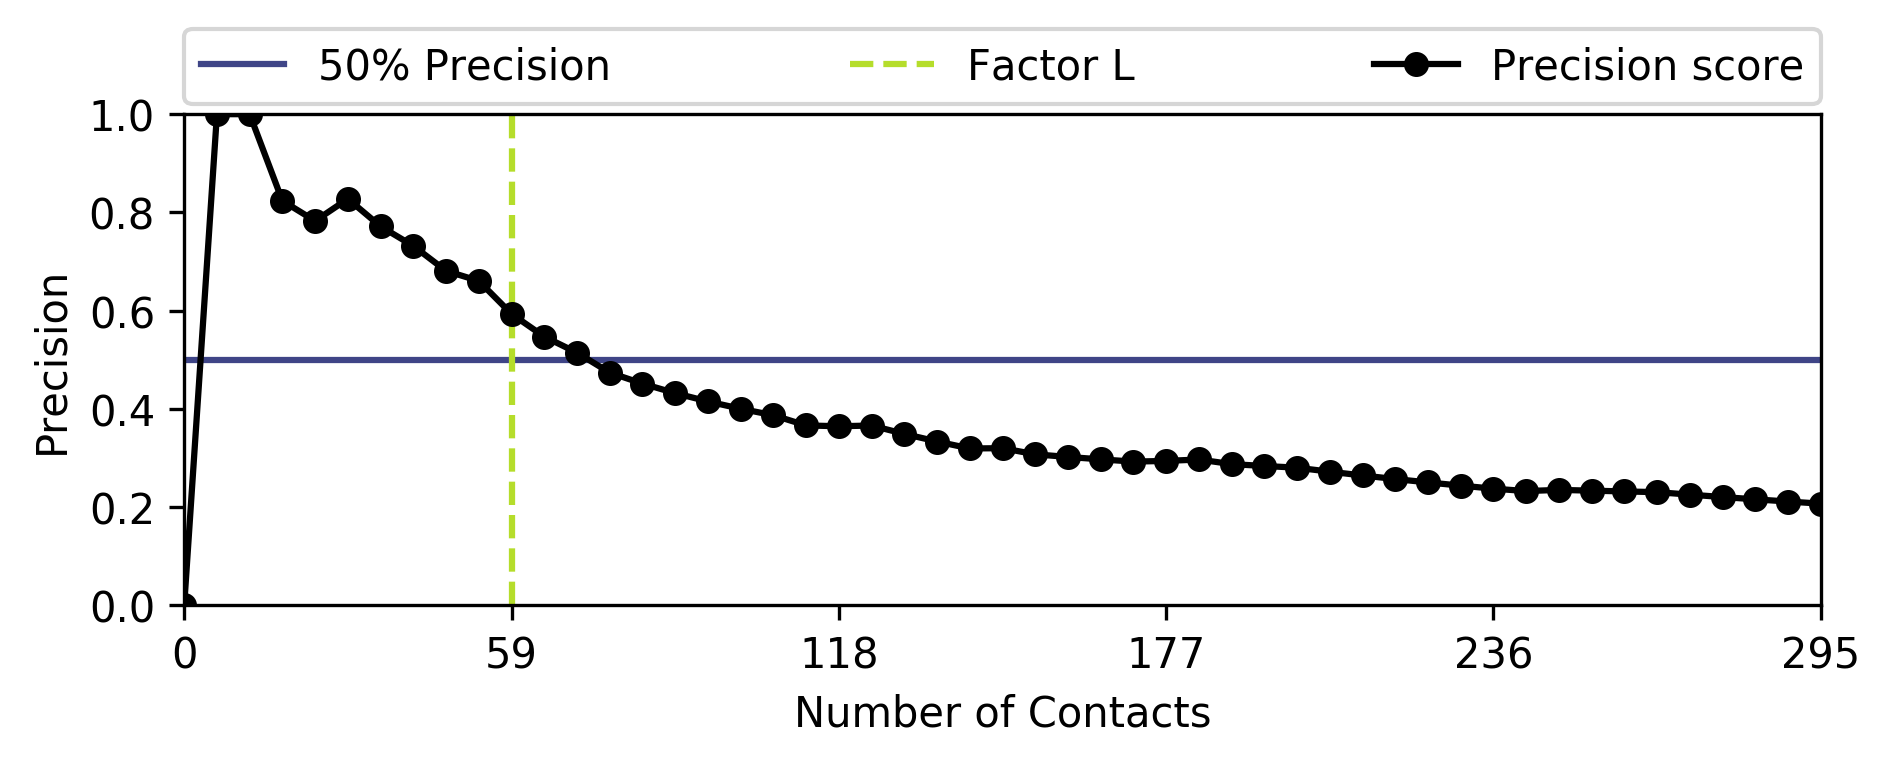
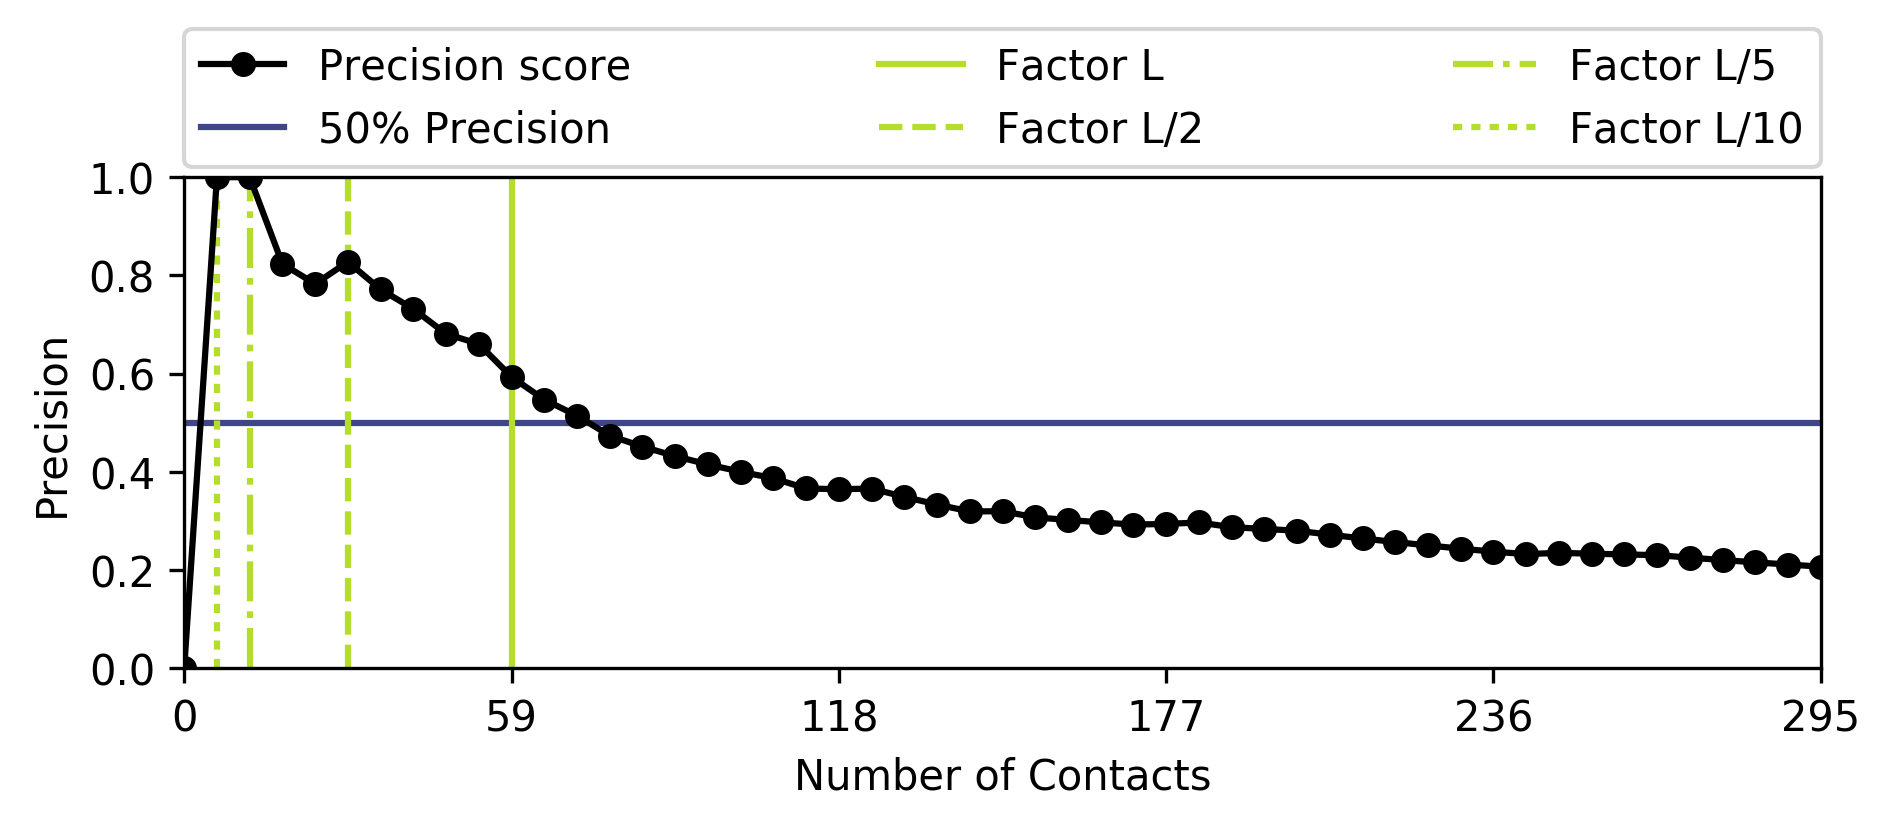
factor lines added for different L cutoffs

Changed region(s): [[0.0, 0.0301, 0.9677, 0.7216], [0.0312, 0.7516, 0.9989, 0.9621]]

diff --git a/conkit/plot/PrecisionEvaluationPlot.py b/conkit/plot/PrecisionEvaluationPlot.py
@@ -168,14 +168,20 @@ class PrecisionEvaluationFigure(Figure):
 
         fig, ax = matplotlib.pyplot.subplots()
 
-        # Add indicator lines for clarity of data
-        ax.axhline(0.5, color=ColorDefinitions.PRECISION50, linestyle='-',  label='50% Precision')
-        if self.min_cutoff <= 1.0:
-            ax.axvline(1.0, color=ColorDefinitions.FACTOR1, linestyle='--', label='Factor L')
-
         # Add data points itself
         ax.plot(factors, precisions, color=ColorDefinitions.GENERAL, marker='o', markersize=5, linestyle='-',
-                label='Precision score')
+                label='Precision score', zorder=1)
+
+        # Add indicator lines for clarity of data
+        ax.axhline(0.5, color=ColorDefinitions.PRECISION50, linestyle='-',  label='50% Precision', zorder=0)
+        if self.min_cutoff <= 1.0:
+            ax.axvline(1.0, color=ColorDefinitions.FACTOR1, linestyle='-', label='Factor L', zorder=0)
+        if self.min_cutoff <= 0.5:
+            ax.axvline(0.5, color=ColorDefinitions.FACTOR1, linestyle='--', label='Factor L/2', zorder=0)
+        if self.min_cutoff <= 0.2:
+            ax.axvline(0.2, color=ColorDefinitions.FACTOR1, linestyle='-.', label='Factor L/5', zorder=0)
+        if self.min_cutoff <= 0.1:
+            ax.axvline(0.1, color=ColorDefinitions.FACTOR1, linestyle=':', label='Factor L/10', zorder=0)
 
         # Prettify the plot
         ax.set_xlim(self.min_cutoff, self.max_cutoff)
